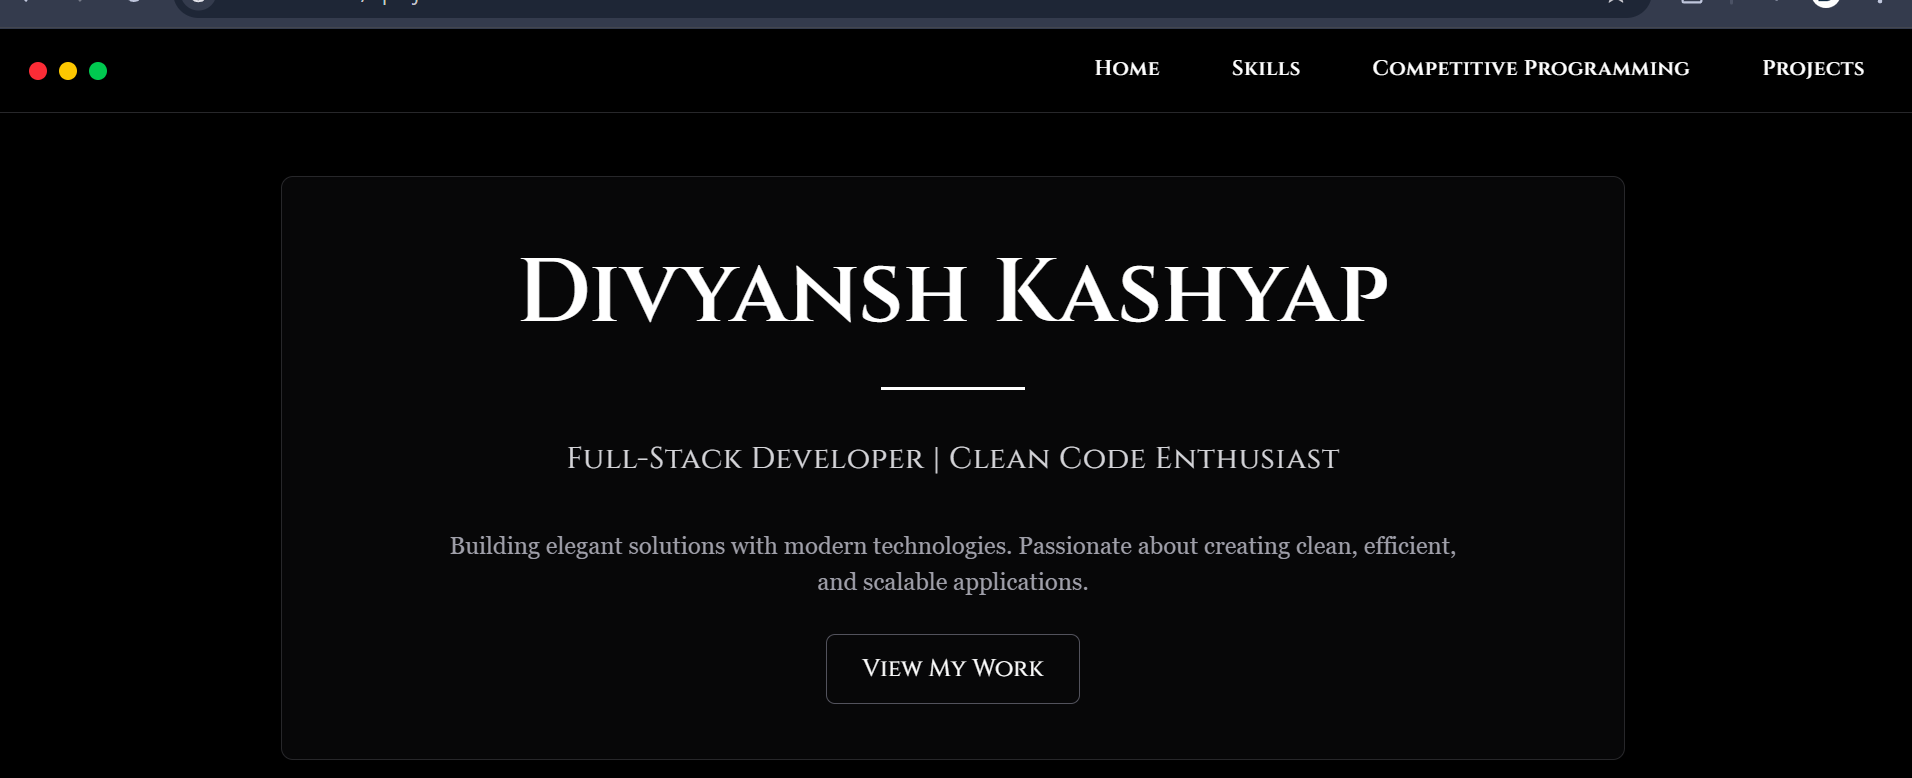
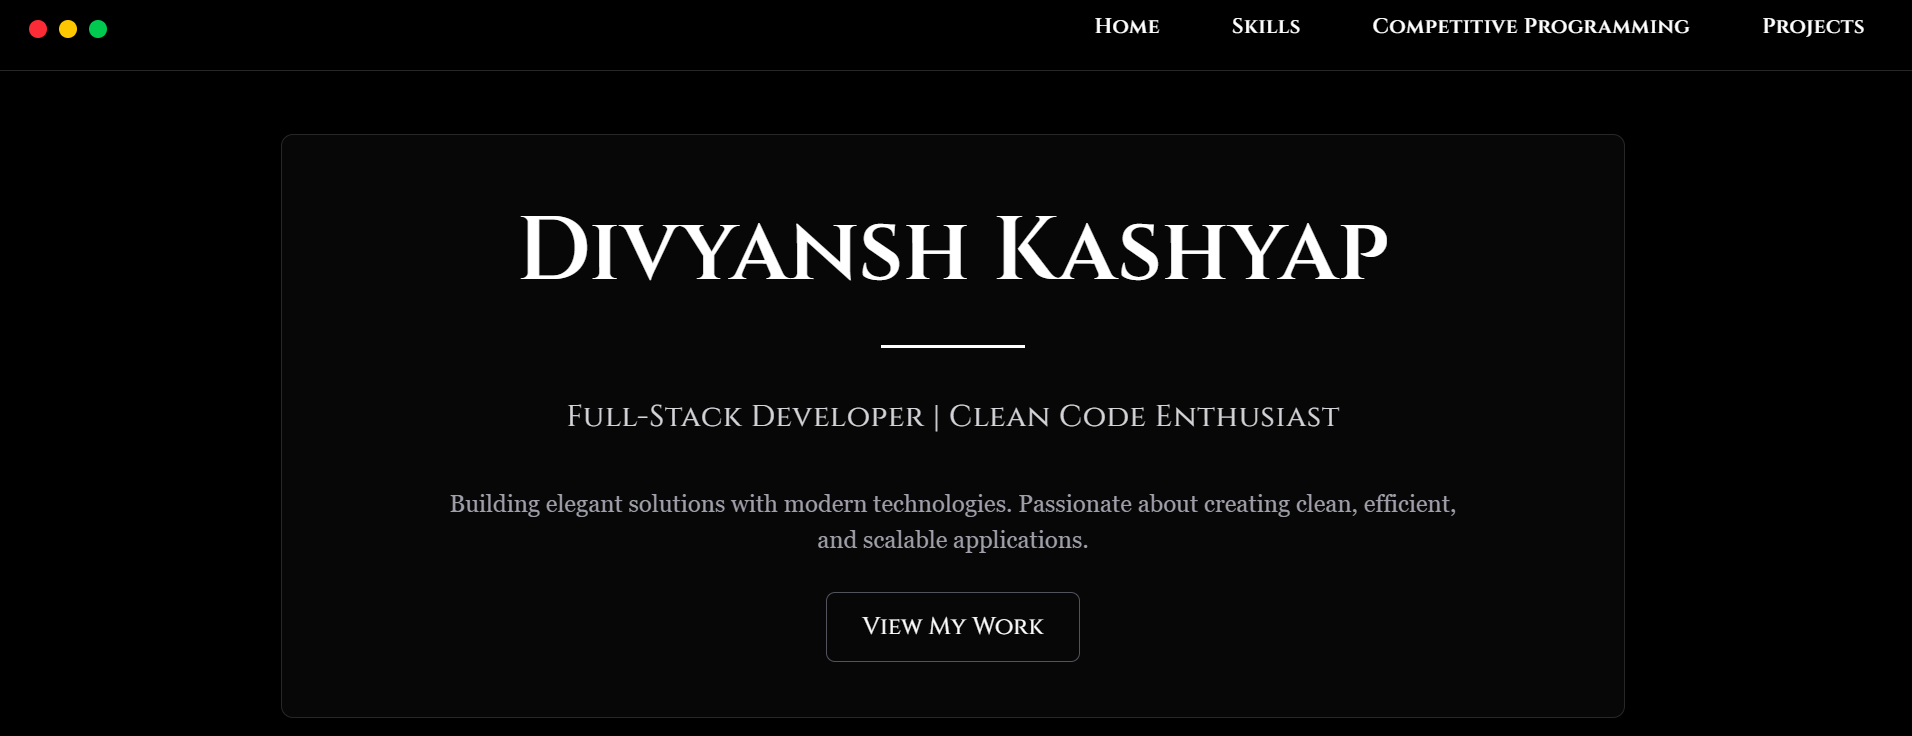
add timeline of my education

diff --git a/src/Components/Education/Education.jsx b/src/Components/Education/Education.jsx
@@ -1,0 +1,110 @@
+import React from "react";
+import { Timeline } from "./ui/Timeline.jsx";
+
+
+export function Education() {
+   const data = [
+      {
+         title: "2018-19",
+         content: (
+            <div className="flex items-center justify-center">
+               <div className="bg-black/50 border border-zinc-800 rounded-lg overflow-hidden hover:border-zinc-600 transition-all duration-300 group">
+
+                  {/* Image Section with Overlay */}
+                  <div className="h-48 bg-white/95 overflow-hidden relative">
+                     <div className="absolute inset-0 bg-gradient-to-t from-black to-transparent z-10" />
+                     <img
+                        src="/BSER.png"
+                        alt="BSER logo"
+                        className="w-full h-full object-contain object-center group-hover:scale-105 transition-all duration-500"
+                     />
+                  </div>
+
+                  {/* Text Content */}
+                  <div className="p-5">
+                     <h3 className="text-4xl cinzel-bold text-white mb-2">
+                        10th - Secondary
+                     </h3>
+                     <p className="text-xl cinzel-bold text-white mb-2">Percentage: 89.67%</p>
+                     <div  className="text-lg text-zinc-400 font-serif py-1 my-1">Adarsh Bal Vidhya Mandir, Aklera, Rajasthan</div>
+                     <div className="text-sm w-max font-serif px-2 py-1 my-1 bg-zinc-900 text-zinc-300 rounded-md border border-zinc-700">
+                        Board of Secondary Education, Rajasthan
+                     </div>
+                  </div>
+
+               </div>
+            </div>
+         ),
+      },
+      {
+         title: "2020-21",
+         content: (
+            <div className="flex items-center justify-center">
+               <div className="bg-black/50 border border-zinc-800 rounded-lg overflow-hidden hover:border-zinc-600 transition-all duration-300 group">
+
+                  {/* Image Section with Overlay */}
+                  <div className="h-48 bg-white/95 overflow-hidden relative">
+                     <div className="absolute inset-0 bg-gradient-to-t from-black to-transparent z-10" />
+                     <img
+                        src="/BSER.png"
+                        alt="BSER logo"
+                        className="w-full h-full object-contain object-center group-hover:scale-105 transition-all duration-500"
+                     />
+                  </div>
+
+                  {/* Text Content */}
+                  <div className="p-5">
+                     <h3 className="text-4xl cinzel-bold text-white mb-2">
+                        12th - Senior Secondary
+                     </h3>
+                     <p className="text-xl cinzel-bold text-white mb-2">Percentage: 98.8%</p>
+                     <div  className="text-lg text-zinc-400 font-serif py-1 my-1">Adarsh Bal Vidhya Mandir, Aklera, Rajasthan</div>
+                     <div className="text-sm w-max font-serif px-2 py-1 my-1 bg-zinc-900 text-zinc-300 rounded-md border border-zinc-700">
+                        Board of Senior Secondary Education, Rajasthan
+                     </div>
+                  </div>
+
+               </div>
+            </div>
+         ),
+      },
+      {
+         title: "2022-Present",
+         content: (
+            <div className="flex items-end justify-center">
+               <div className="bg-black/50 border border-zinc-800 rounded-lg overflow-hidden hover:border-zinc-600 transition-all duration-300 group">
+
+                  {/* Image Section with Overlay */}
+                  <div className="h-48 bg-black overflow-hidden relative">
+                     <div className="absolute inset-0 bg-gradient-to-t from-black to-transparent z-10" />
+                     <img
+                        src="/juet.png"
+                        alt="JUET logo"
+                        className="w-full h-full object-contain object-center group-hover:scale-105 transition-all duration-500"
+                     />
+                  </div>
+
+                  {/* Text Content */}
+                  <div className="p-5">
+                     <h3 className="text-4xl cinzel-bold text-white mb-2">
+                        Bachelor of Technology (B.Tech) 
+                     </h3>
+                     <p className="text-xl cinzel-bold text-white mb-2">Current CGPA: 7.8</p>
+                     <div  className="text-lg text-zinc-400 font-serif py-1 my-1">Jaypee University of Engineering & Technology</div>
+                     <div className="text-sm w-max font-serif px-2 py-1 my-1 bg-zinc-900 text-zinc-300 rounded-md border border-zinc-700">
+                        Computer Science and Engineering
+                     </div>
+                  </div>
+               </div>
+            </div>
+         ),
+      },
+   ];
+   return (
+      <div className="relative w-full overflow-clip">
+         <Timeline data={data} />
+      </div>
+   );
+}
+
+export default Education;

diff --git a/src/Components/Education/ui/Timeline.jsx b/src/Components/Education/ui/Timeline.jsx
@@ -1,0 +1,82 @@
+import { useScroll, useTransform, motion } from "framer-motion";
+import React, { useEffect, useRef, useState } from "react";
+
+export const Timeline = ({
+   data
+}) => {
+   const ref = useRef(null);
+   const containerRef = useRef(null);
+   const [height, setHeight] = useState(0);
+
+   useEffect(() => {
+      if (ref.current) {
+         const rect = ref.current.getBoundingClientRect();
+         setHeight(rect.height);
+      }
+   }, [ref]);
+
+   const { scrollYProgress } = useScroll({
+      target: containerRef,
+      offset: ["start 10%", "end 50%"],
+   });
+
+   const heightTransform = useTransform(scrollYProgress, [0, 1], [0, height]);
+   const opacityTransform = useTransform(scrollYProgress, [0, 0.1], [0, 1]);
+
+   return (
+      <div
+         className="w-full bg-white dark:bg-neutral-950 font-sans md:px-10"
+         ref={containerRef}>
+         <div className="max-w-7xl mx-auto py-10 px-4 md:px-8 lg:px-10">
+         <div className="w-16 h-0.5 bg-white mx-auto mb-4"></div>
+            <h2 className="text-lg cinzel-bold md:text-4xl mb-4 flex justify-center text-black dark:text-white">
+               Education
+            </h2>
+            <div className="flex justify-center">
+               <p
+                  className="text-neutral-700 flex justify-center font-serif dark:text-neutral-300 text-sm md:text-base">
+                  Here is a timeline of my educational journey, showcasing the institutions I've attended and the qualifications I've earned.
+               </p>
+            </div>
+         </div>
+         <div ref={ref} className="relative max-w-7xl mx-auto pb-20">
+            {data.map((item, index) => (
+               <div key={index} className="flex justify-start pt-10 md:pt-40 md:gap-10">
+                  <div
+                     className="sticky flex flex-col md:flex-row z-40 items-center top-40 self-start max-w-xs lg:max-w-sm md:w-full">
+                     <div
+                        className="h-10 absolute left-3 md:left-3 w-10 rounded-full bg-white dark:bg-black flex items-center justify-center">
+                        <div
+                           className="h-4 w-4 rounded-full bg-neutral-200 dark:bg-neutral-800 border border-neutral-300 dark:border-neutral-700 p-2" />
+                     </div>
+                     <h3
+                        className="hidden md:block text-xl md:pl-20 md:text-5xl font-bold text-neutral-500 dark:text-neutral-500 ">
+                        {item.title}
+                     </h3>
+                  </div>
+
+                  <div className="relative pl-20 pr-4 md:pl-4 w-full">
+                     <h3
+                        className="md:hidden block text-2xl mb-4 text-left font-bold text-neutral-500 dark:text-neutral-500">
+                        {item.title}
+                     </h3>
+                     {item.content}{" "}
+                  </div>
+               </div>
+            ))}
+            <div
+               style={{
+                  height: height + "px",
+               }}
+               className="absolute md:left-8 left-8 top-0 overflow-hidden w-[2px] bg-[linear-gradient(to_bottom,var(--tw-gradient-stops))] from-transparent from-[0%] via-neutral-200 dark:via-neutral-700 to-transparent to-[99%]  [mask-image:linear-gradient(to_bottom,transparent_0%,black_10%,black_90%,transparent_100%)] ">
+               <motion.div
+                  style={{
+                     height: heightTransform,
+                     opacity: opacityTransform,
+                  }}
+                  className="absolute inset-x-0 top-0  w-[2px] bg-gradient-to-t from-purple-500 via-blue-500 to-transparent from-[0%] via-[10%] rounded-full" />
+            </div>
+         </div>
+      </div>
+   );
+};

diff --git a/src/App.jsx b/src/App.jsx
@@ -3,13 +3,15 @@ import SkillsSection from "./Components/SkillsSection/SkillsSection.jsx"
 import Programming from "./Components/Programming/Programming.jsx"
 import Home from "./Components/Home/Home.jsx"
 import Projects from "./Components/Projects/Projects.jsx"
+import Education from "./Components/Education/Education.jsx"
 
 
 function App() {
   return (
     <div className="w-full h-screen overflow-y-scroll scrollbar-hidden bg-black text-white scroll-smooth font-sans">
       {/* Navbar */}
-      <div className="fixed top-0 w-full h-14 flex justify-between items-center px-6 shadow-md z-20 border-b border-zinc-800 bg-black/90 backdrop-blur-sm">
+      {/* Navbar */}
+      <div className="hidden md:flex fixed top-0 w-full h-14 justify-between items-center px-6 shadow-md z-50 border-b border-zinc-800 bg-black/90 backdrop-blur-sm">
         {/* Indicator dots */}
         <div className="flex space-x-2">
           <div className="w-3 h-3 bg-red-500 rounded-full shadow-sm" />
@@ -18,36 +20,20 @@ function App() {
         </div>
         {/* Navbar Links */}
         <nav className="flex space-x-8 items-center text-sm cinzel-bold font-medium tracking-wide">
-          <a
-            href="#home"
-            className="px-2 py-1 hover:text-zinc-300 border-b-2 border-transparent hover:border-zinc-500 transition-all duration-300"
-          >
-            Home
-          </a>
-          <a
-            href="#skills"
-            className="px-2 py-1 hover:text-zinc-300 border-b-2 border-transparent hover:border-zinc-500 transition-all duration-300"
-          >
-            Skills
-          </a>
-          <a
-            href="#programming"
-            className="px-2 py-1 hover:text-zinc-300 border-b-2 border-transparent hover:border-zinc-500 transition-all duration-300"
-          >
-            Competitive Programming
-          </a>
-          <a
-            href="#projects"
-            className="px-2 py-1 hover:text-zinc-300 border-b-2 border-transparent hover:border-zinc-500 transition-all duration-300"
-          >
-            Projects
-          </a>
+          <a href="#home" className="px-2 py-1 hover:text-zinc-300 border-b-2 border-transparent hover:border-zinc-500 transition-all duration-300">Home</a>
+          <a href="#skills" className="px-2 py-1 hover:text-zinc-300 border-b-2 border-transparent hover:border-zinc-500 transition-all duration-300">Skills</a>
+          <a href="#programming" className="px-2 py-1 hover:text-zinc-300 border-b-2 border-transparent hover:border-zinc-500 transition-all duration-300">Competitive Programming</a>
+          <a href="#projects" className="px-2 py-1 hover:text-zinc-300 border-b-2 border-transparent hover:border-zinc-500 transition-all duration-300">Projects</a>
         </nav>
       </div>
+
 
       {/* Sections */}
       <section id="home" className="min-h-screen flex items-center justify-center border-b border-zinc-800">
         <Home />
+      </section>
+      <section id="Education" className="min-h-screen flex items-center justify-center border-b border-zinc-800">
+        <Education />
       </section>
       <section id="skills" className="min-h-screen flex items-center justify-center border-b border-zinc-800">
         <SkillsSection />
